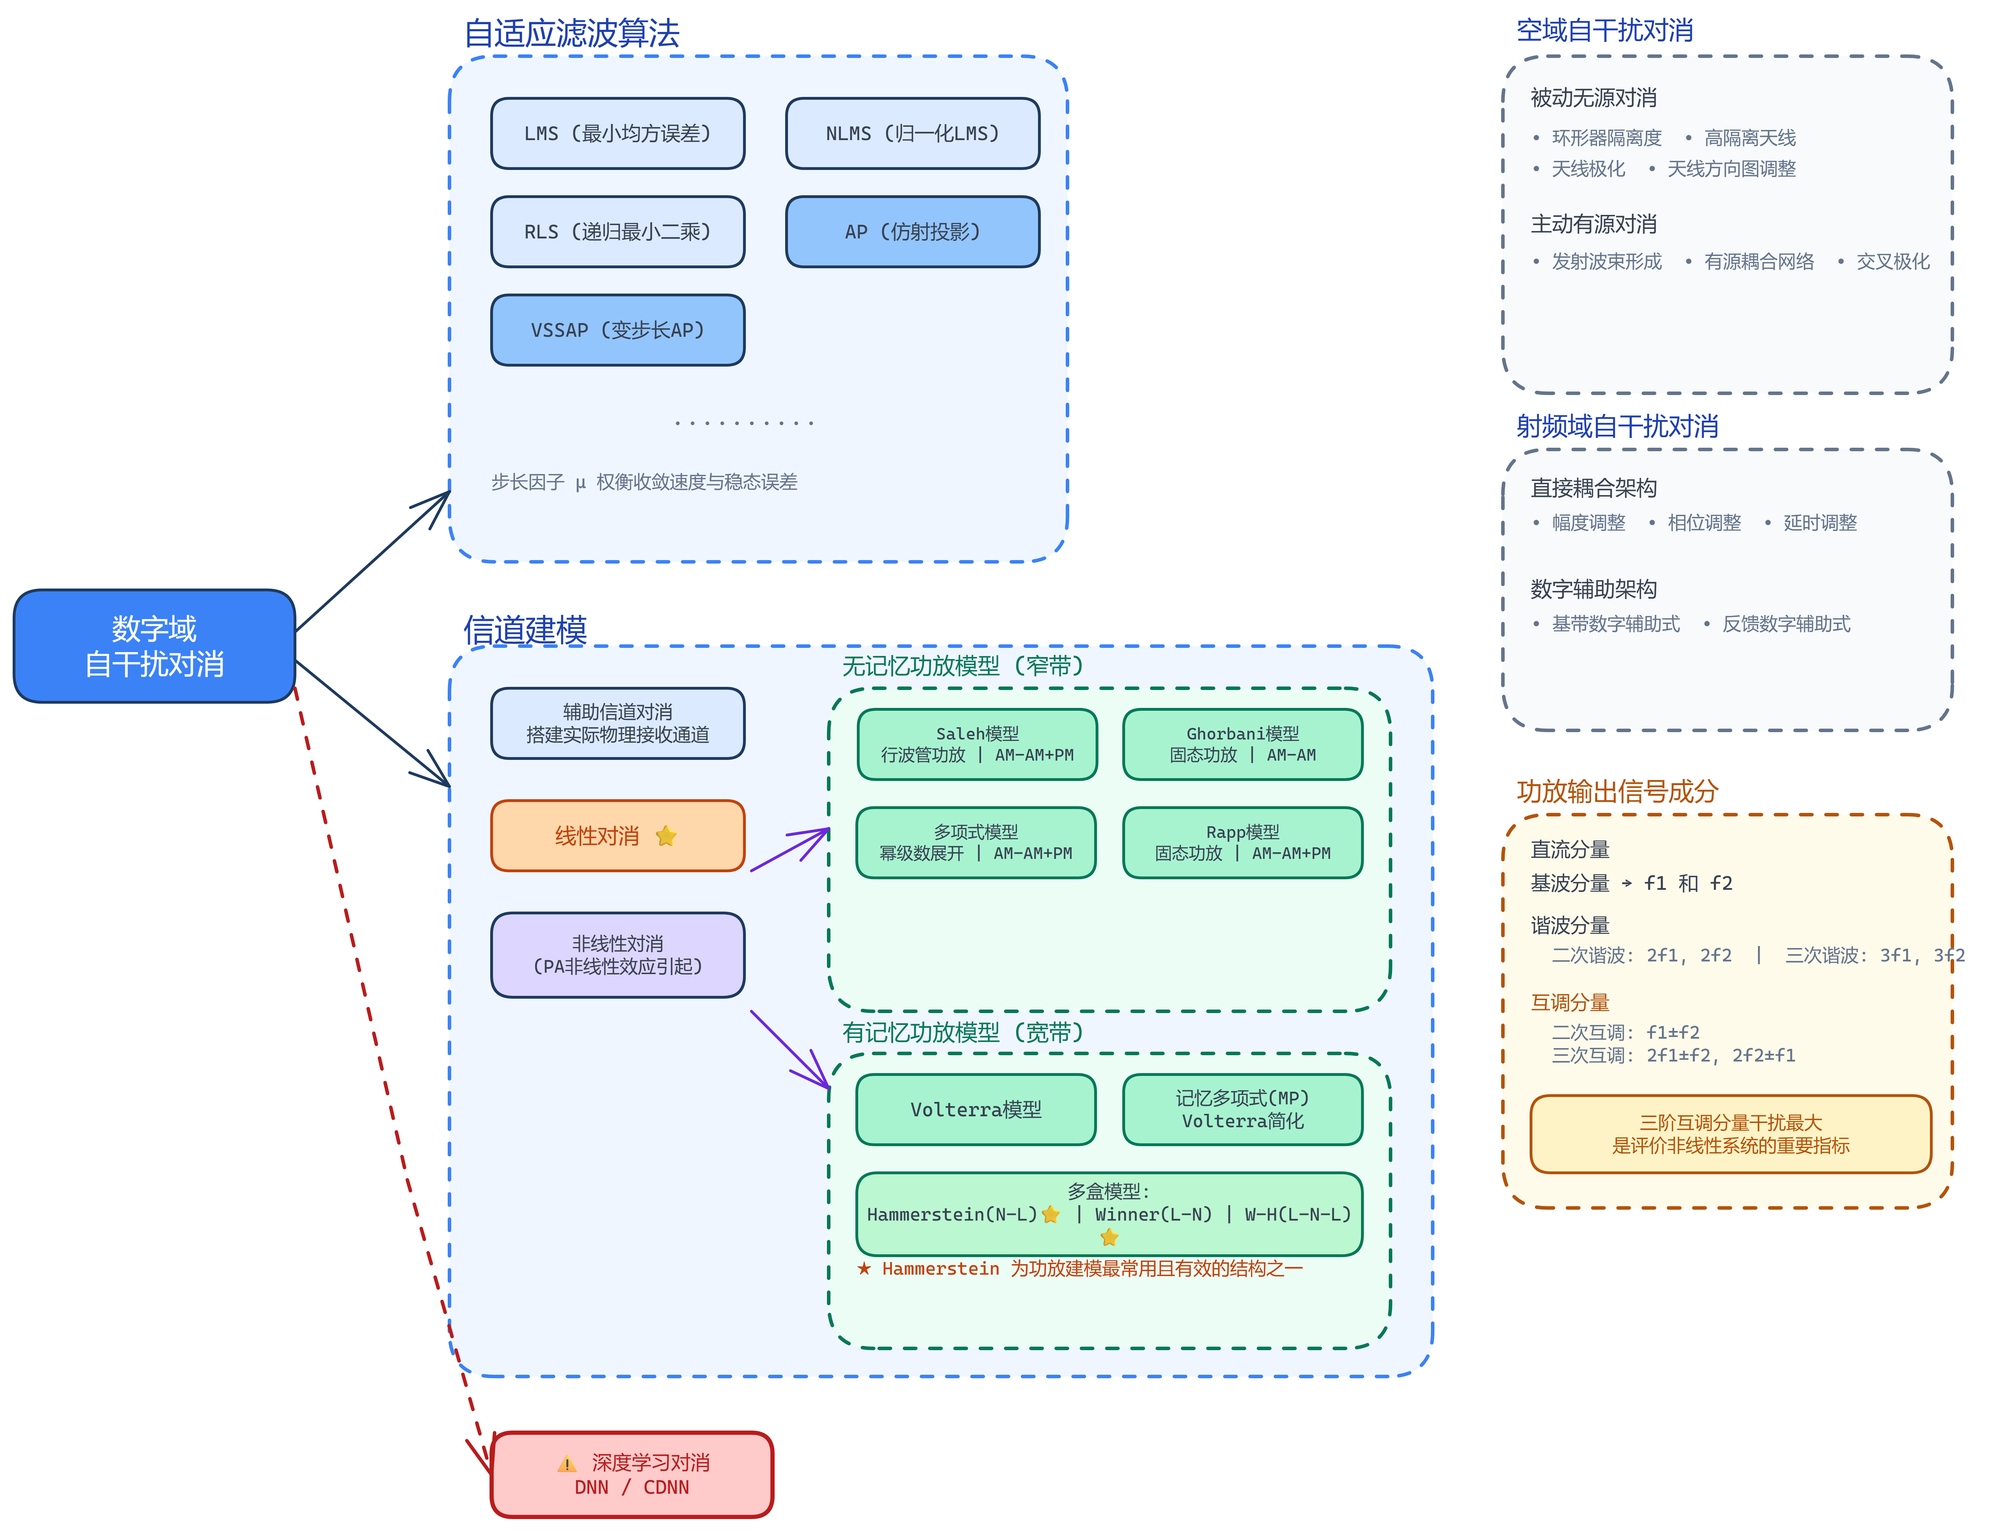
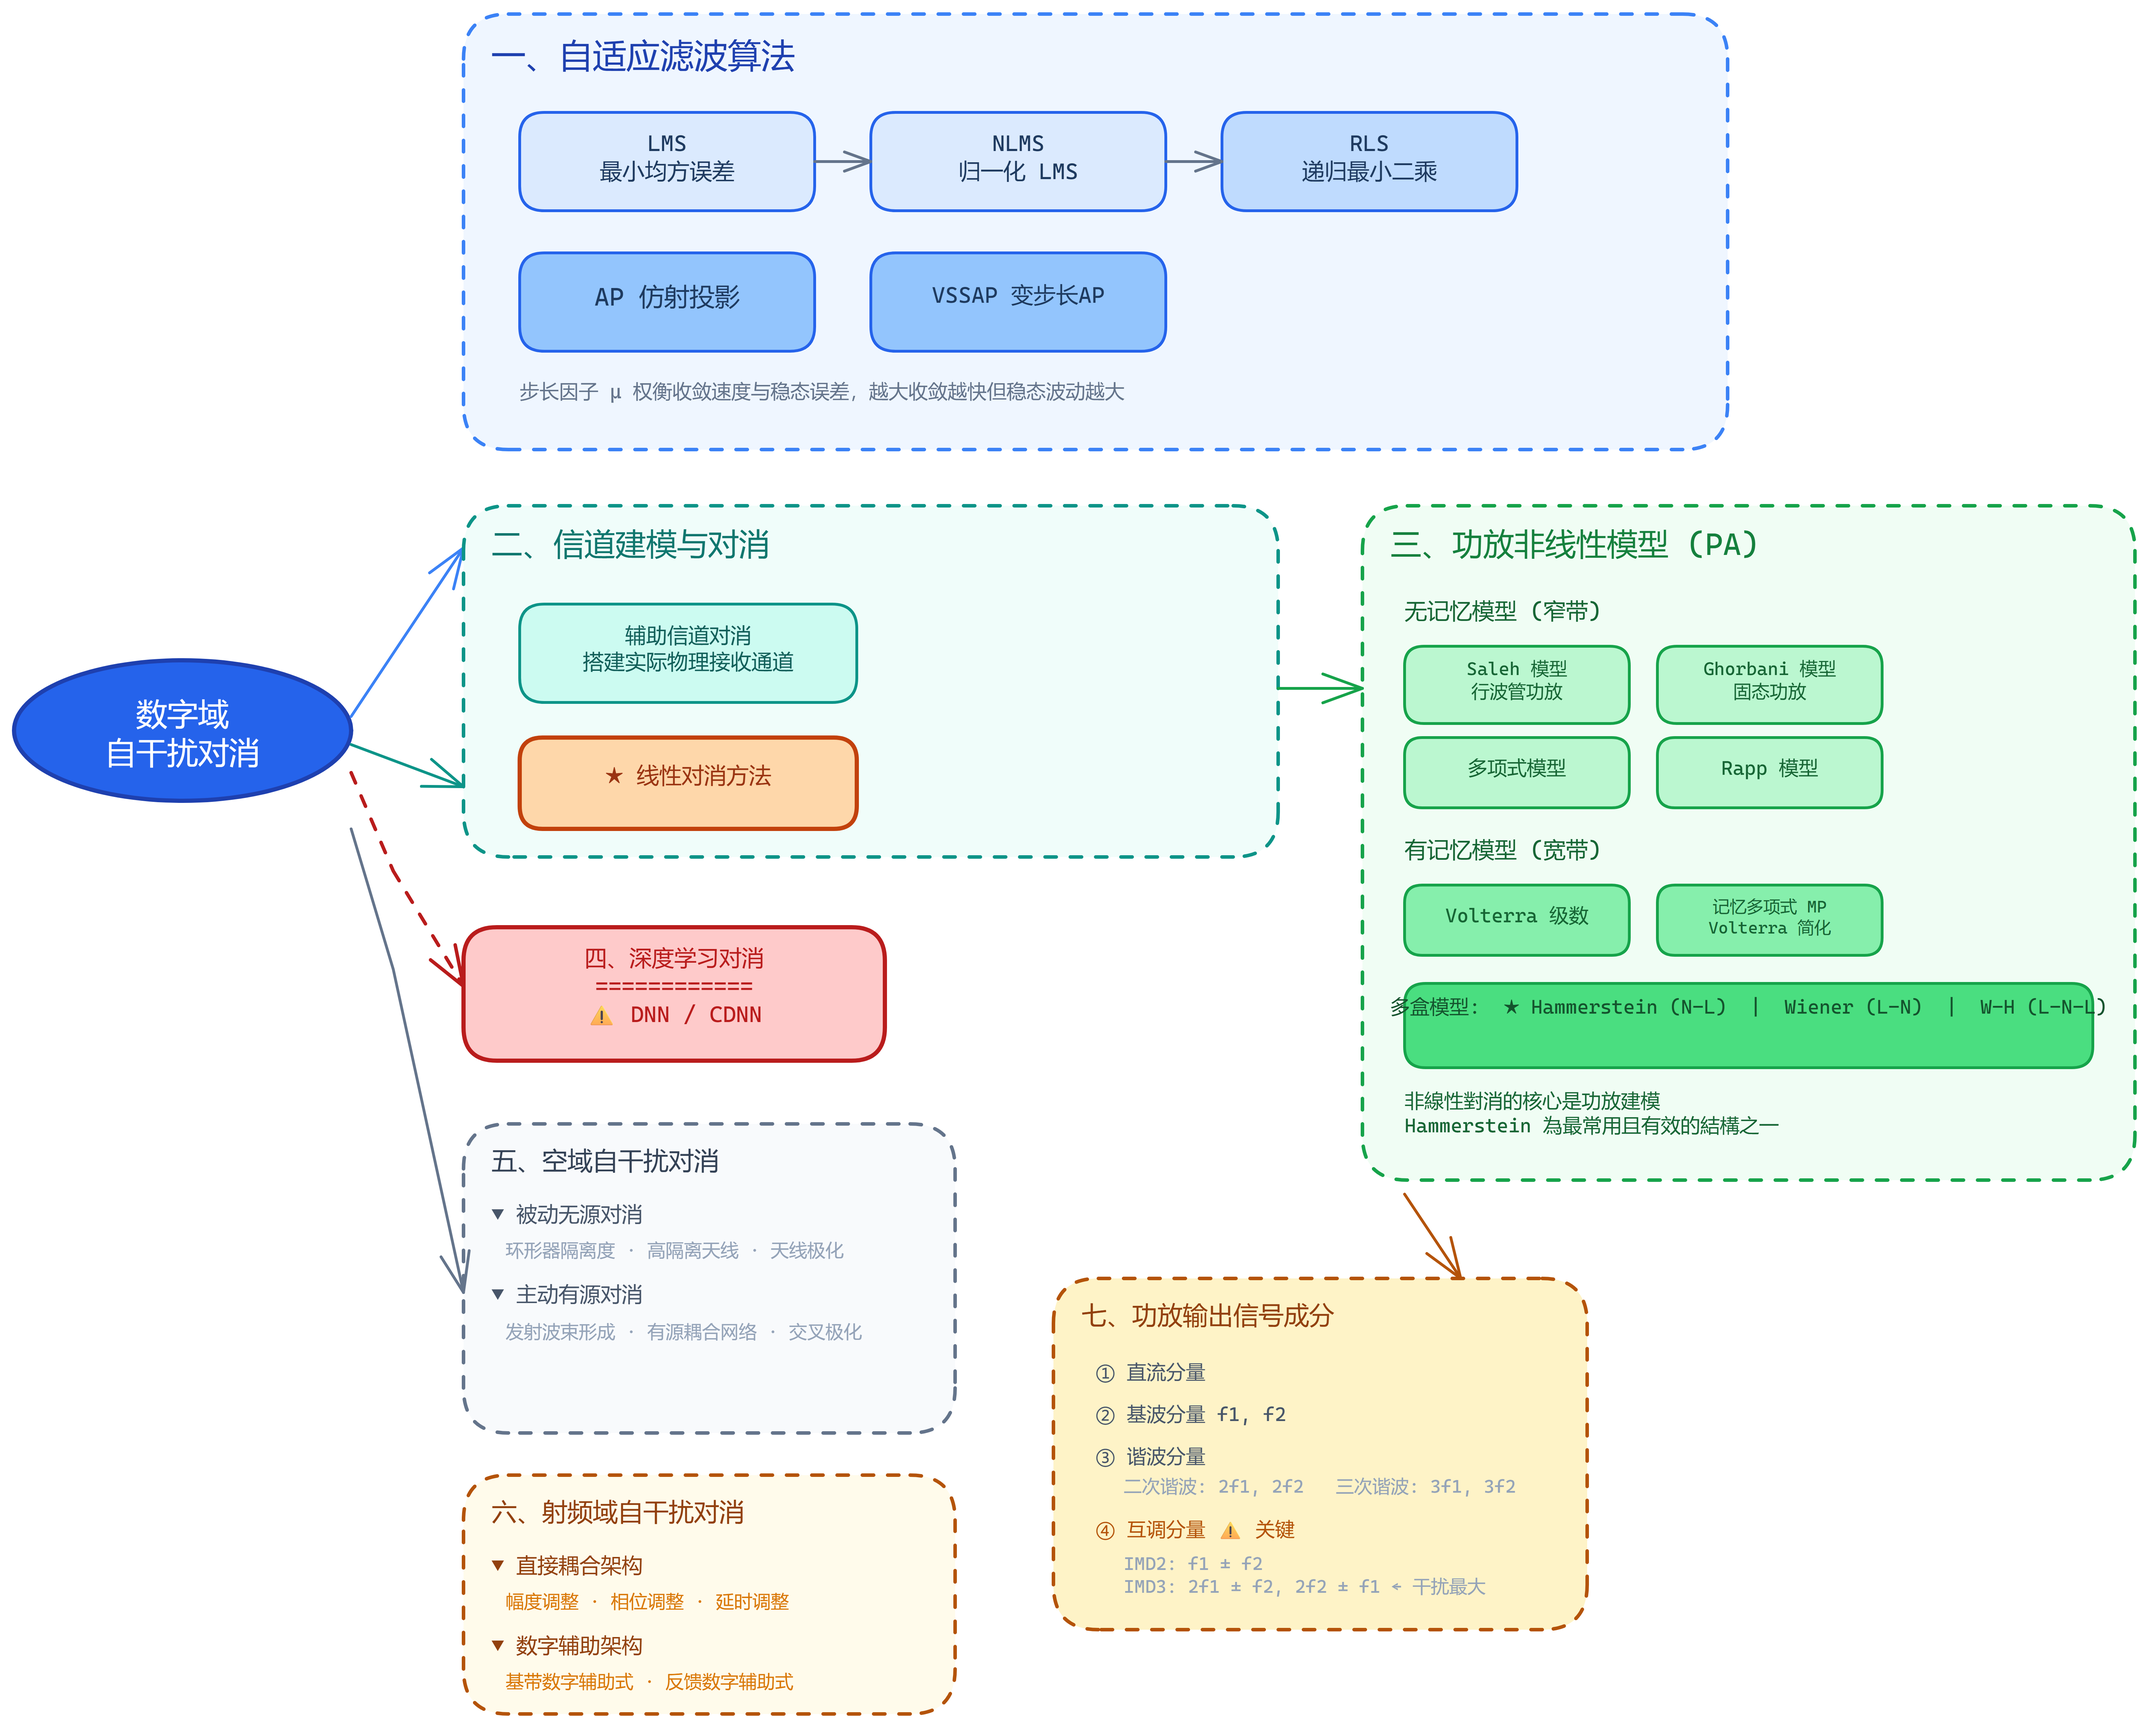
redesign Excalidraw 思维导图为 v2 版本，优化视觉设计
- 全新中心辐射式布局，蓝色椭圆核心节点
- 七大数据域分区：自适应滤波/信道建模/功放模型/深度学习/空域/射频域/功放输出
- 色彩语义化：蓝(滤波)、青(信道)、绿(功放)、红(DL)、灰(空域)、琥珀(RF)、黄(输出)
- 添加分区边界虚线框和箭头连接，层次分明
- 替换 PNG 渲染图（3060×2460, 2x scale）

diff --git a/docs/数字对消/数字域自干扰对消体系.excalidraw.md b/docs/数字对消/数字域自干扰对消体系.excalidraw.md
@@ -12,63 +12,59 @@ tags:
 ## Text Elements
 数字域
 自干扰对消
-自适应滤波算法
-LMS (最小均方误差)
-NLMS (归一化LMS)
-RLS (递归最小二乘)
-AP (仿射投影)
-VSSAP (变步长AP)
-..........
-步长因子 μ 权衡收敛速度与稳态误差
-信道建模
+一、自适应滤波算法
+LMS
+最小均方误差
+NLMS
+归一化 LMS
+RLS
+递归最小二乘
+AP 仿射投影
+VSSAP 变步长AP
+步长因子 μ 权衡收敛速度与稳态误差，越大收敛越快但稳态波动越大
+二、信道建模与对消
 辅助信道对消
 搭建实际物理接收通道
-线性对消 ⭐
-非线性対消
-(PA非线性效应引起)
-无记忆功放模型 (窄带)
-Saleh模型
-行波管功放 | AM-AM+PM
-Ghorbani模型
-固态功放 | AM-AM
+★ 线性对消方法
+三、功放非线性模型 (PA)
+无记忆模型 (窄带)
+Saleh 模型
+行波管功放
+Ghorbani 模型
+固态功放
 多项式模型
-幂级数展开 | AM-AM+PM
-Rapp模型
-固态功放 | AM-AM+PM
-有记忆功放模型 (宽带)
-Volterra模型
-记忆多项式(MP)
-Volterra简化
-多盒模型:
-Hammerstein(N-L)⭐ | Winner(L-N) | W-H(L-N-L)⭐
-★ Hammerstein 为功放建模最常用且有效的结构之一
-⚠ 深度学习对消
-DNN / CDNN
-空域自干扰对消
-被动无源对消
-• 环形器隔离度  • 高隔离天线
-• 天线极化  • 天线方向图调整
-主动有源对消
-• 发射波束形成  • 有源耦合网络  • 交叉极化
-射频域自干扰对消
-直接耦合架构
-• 幅度调整  • 相位调整  • 延时调整
-数字辅助架构
-• 基带数字辅助式  • 反馈数字辅助式
-功放输出信号成分
-直流分量
-基波分量 → f1 和 f2
-谐波分量
-二次谐波: 2f1, 2f2  |  三次谐波: 3f1, 3f2
-互调分量
-二次互调: f1±f2
-三次互调: 2f1±f2, 2f2±f1
-三阶互调分量干扰最大
-是评价非线性系统的重要指标
+Rapp 模型
+有记忆模型 (宽带)
+Volterra 级数
+记忆多项式 MP
+Volterra 简化
+多盒模型:  ★ Hammerstein (N-L)  |  Wiener (L-N)  |  W-H (L-N-L)
+非線性對消的核心是功放建模
+Hammerstein 為最常用且有效的結構之一
+四、深度学习对消
+============
+⚠ DNN / CDNN
+五、空域自干扰对消
+▼ 被动无源对消
+环形器隔离度 · 高隔离天线 · 天线极化
+▼ 主动有源对消
+发射波束形成 · 有源耦合网络 · 交叉极化
+六、射频域自干扰对消
+▼ 直接耦合架构
+幅度调整 · 相位调整 · 延时调整
+▼ 数字辅助架构
+基带数字辅助式 · 反馈数字辅助式
+七、功放输出信号成分
+① 直流分量
+② 基波分量 f1, f2
+③ 谐波分量
+二次谐波: 2f1, 2f2   三次谐波: 3f1, 3f2
+④ 互调分量 ⚠ 关键
+IMD2: f1 ± f2
+IMD3: 2f1 ± f2, 2f2 ± f1 ← 干扰最大
 %%
-
 ## Drawing
 ```compressed-json
[2 lines of base64/hex data omitted]
 ```
 %%
